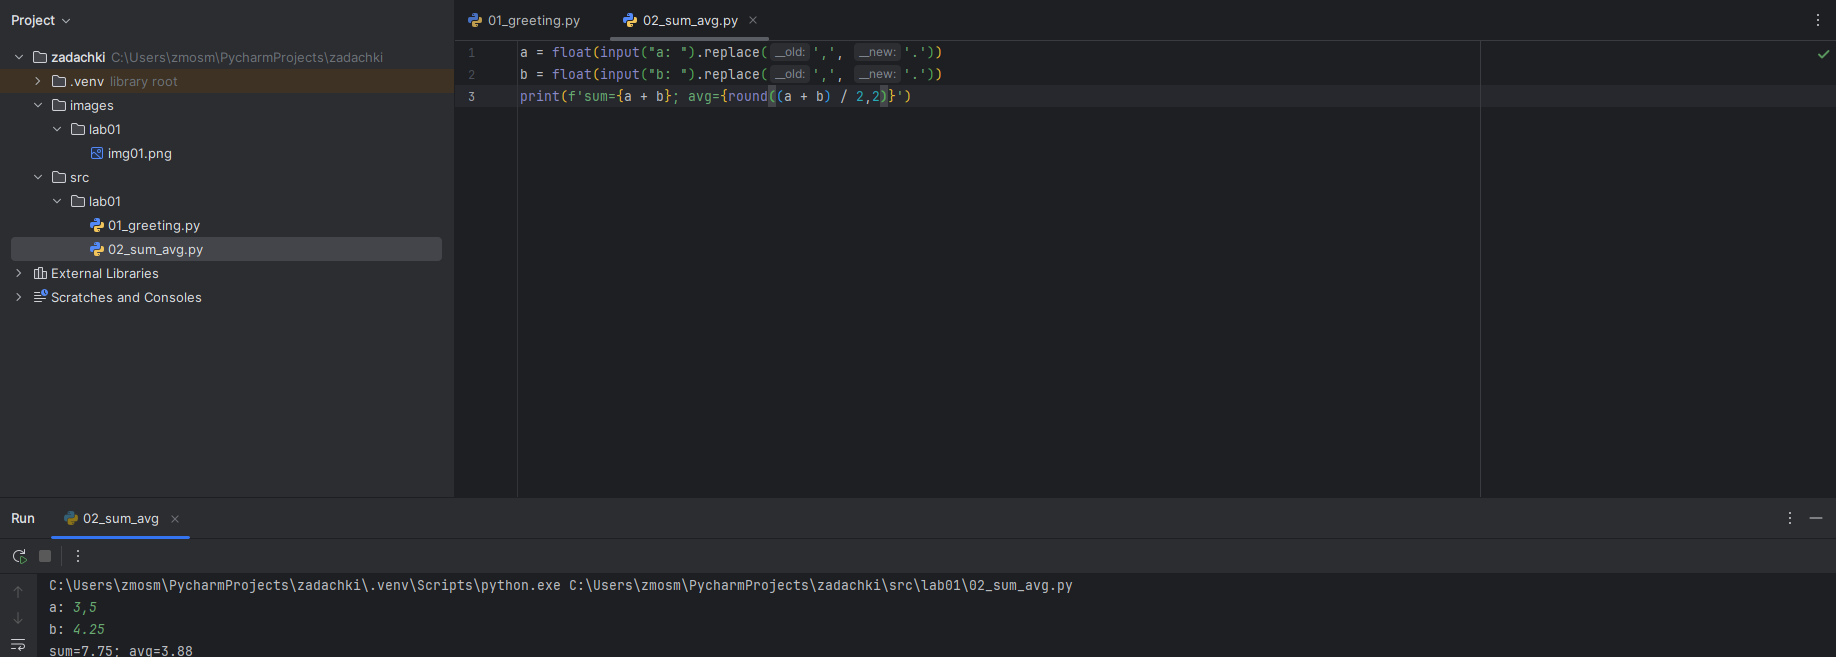
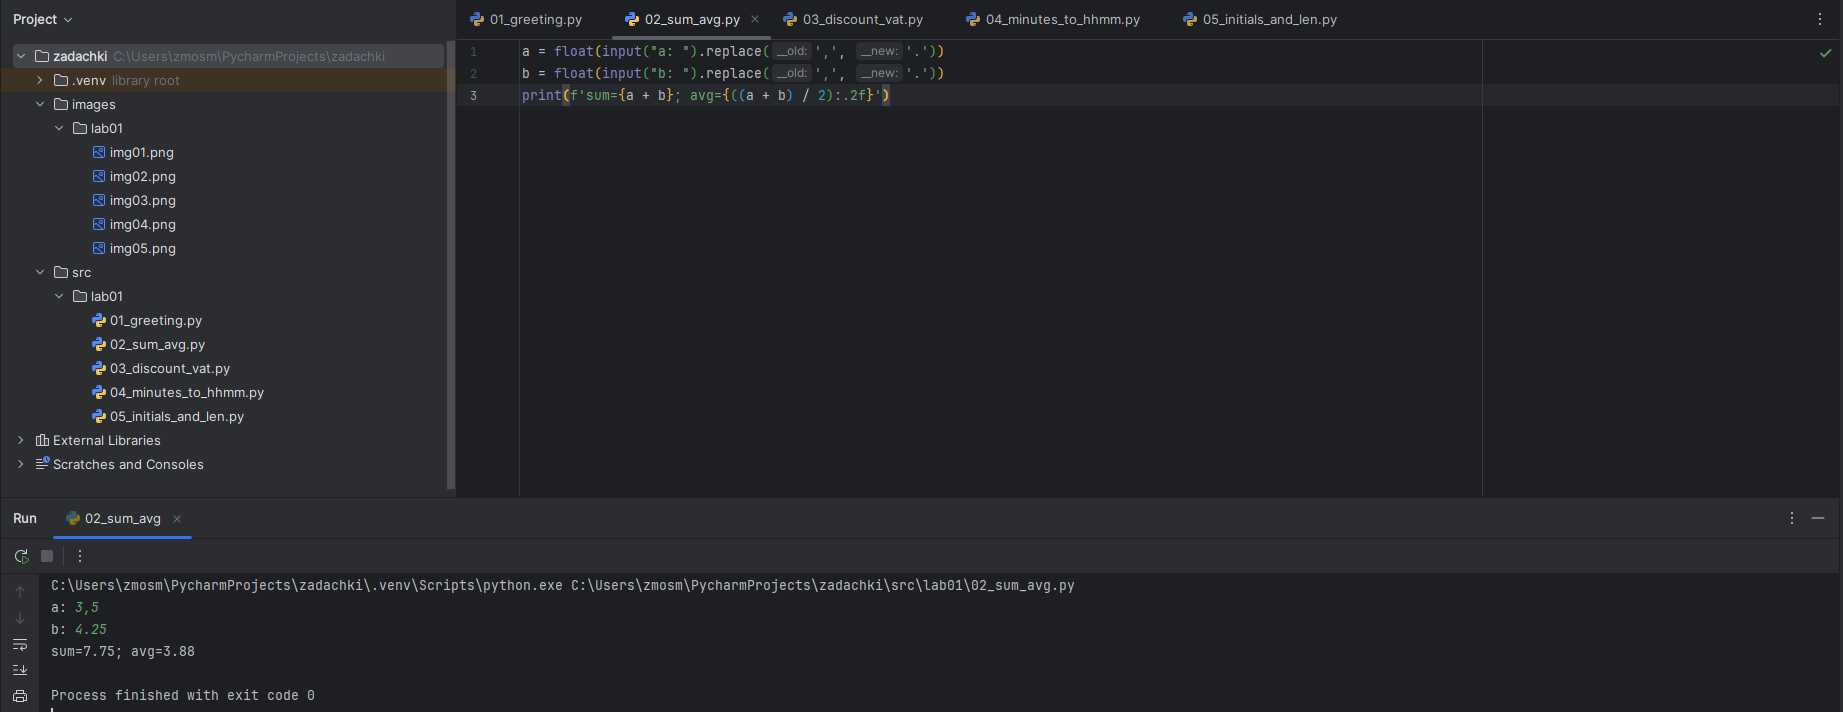
Add files via upload

diff --git a/src/lab01/05_initials_and_len.py b/src/lab01/05_initials_and_len.py
@@ -7,4 +7,4 @@ for i in fio:
     if i != ' ':
         anscnt += 1
 print(f'Инициалы: {ansfio}')
-print(f'Длина (символов): {anscnt}')
+print(f'Длина (символов): {anscnt + 2}')

diff --git a/src/lab01/02_sum_avg.py b/src/lab01/02_sum_avg.py
@@ -1,3 +1,3 @@
 a = float(input("a: ").replace(',', '.'))
 b = float(input("b: ").replace(',', '.'))
-print(f'sum={a + b}; avg={round((a + b) / 2,2)}')
+print(f'sum={a + b}; avg={((a + b) / 2):.2f}')
